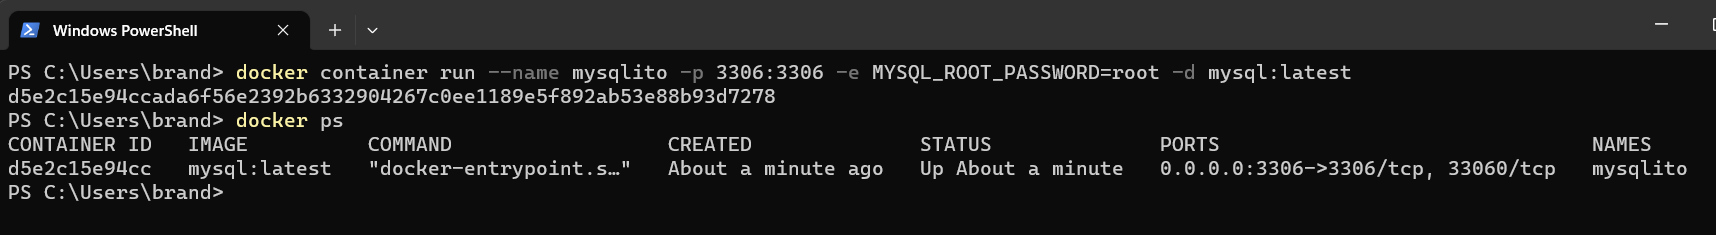
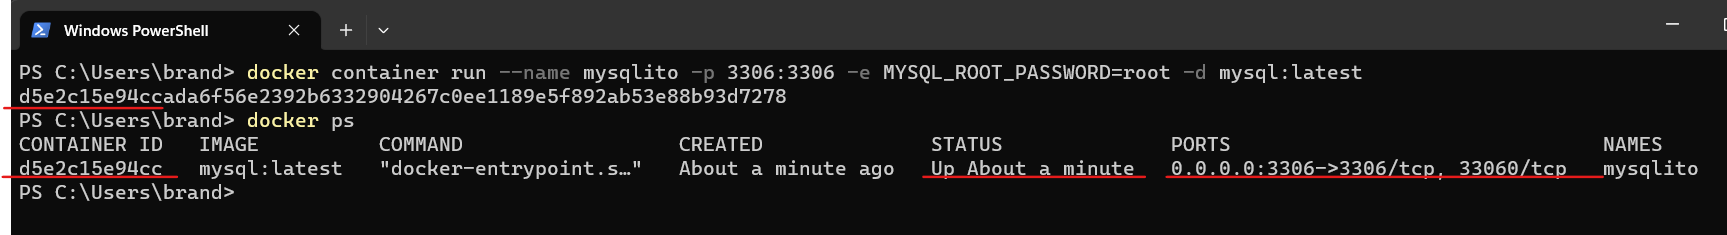
Connection mysql docker with mysql workbench

diff --git a/README.md b/README.md
@@ -40,6 +40,12 @@ Install last version
 
 ![docker mysql create container](https://github.com/brandonruizmora/docker-mysql/blob/master/images/4.png?raw=true)
 
-2. This will provide a container id and we can verify the container using the command _`docker ps`_
+2. This will provide a container id and we can verify the container using the command _`docker ps`_ . We see that container id correspond to the container small id and the port 3306 of our host is mapped to the port 3306 of the container
 
 ![docker mysql create container](https://github.com/brandonruizmora/docker-mysql/blob/master/images/5.png?raw=true)
+
+3. Finally we can use MySQL Workbench to verify our container is up and running. We provide the hostname: **localhost** port: **3306** username: **root** and password: **root** .
+
+![docker mysql create container](https://github.com/brandonruizmora/docker-mysql/blob/master/images/6.png?raw=true)
+
+![docker mysql create container](https://github.com/brandonruizmora/docker-mysql/blob/master/images/7.png?raw=true)
